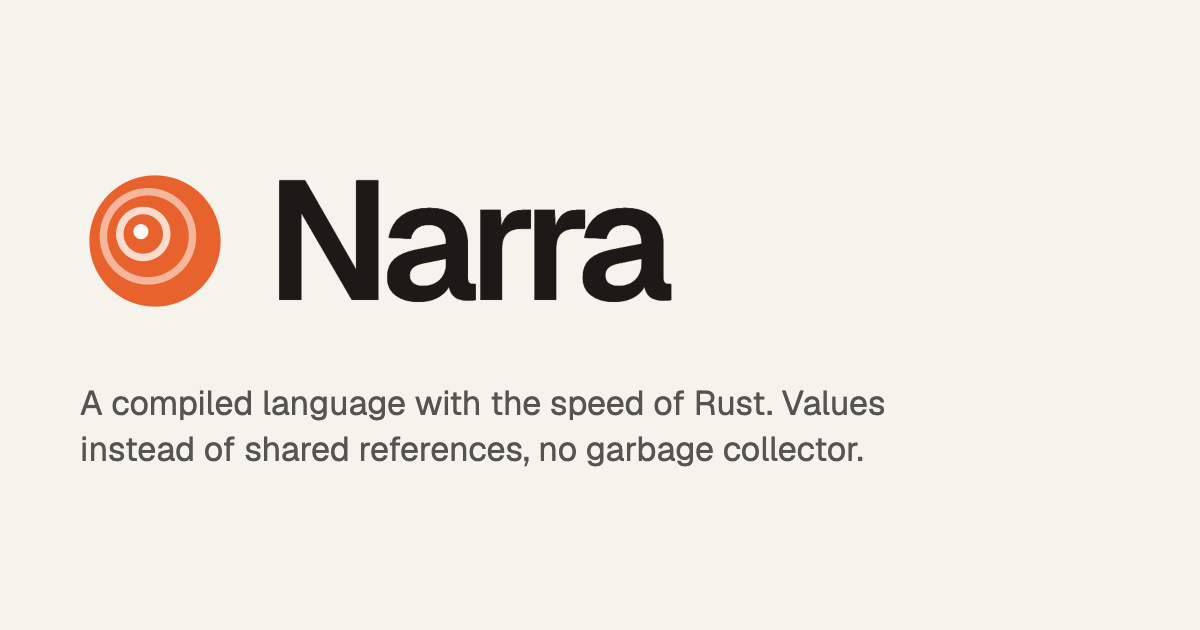
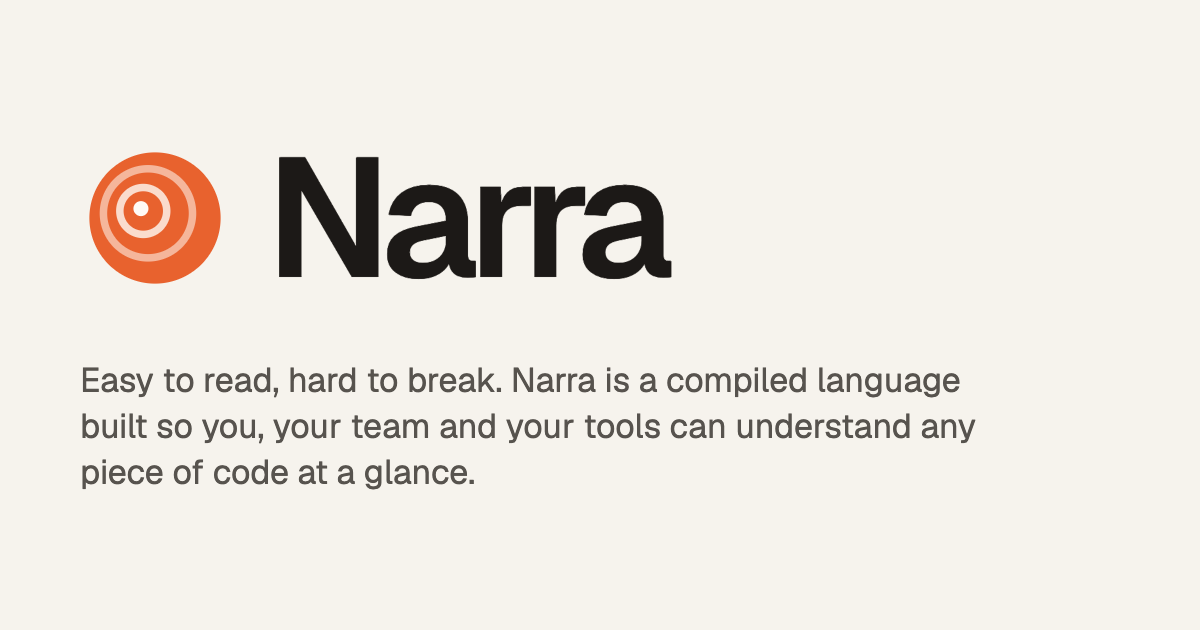
website: describe Narra as easy to read, hard to break
The lead said "the speed of Rust", which leans on Rust's reputation,
and followed it with a list of features. The lead, the page description
and the preview image now say what Narra is for.

Changed region(s): [[0.0617, 0.573, 0.8325, 0.7841], [0.2158, 0.2413, 0.5858, 0.4825], [0.0617, 0.2413, 0.185, 0.4825]]

diff --git a/website/scripts/og-image.html b/website/scripts/og-image.html
@@ -66,6 +66,6 @@
       </svg>
       <h1>Narra</h1>
     </div>
-    <p>A compiled language with the speed of Rust. Values instead of shared references, no garbage collector.</p>
+    <p>Easy to read, hard to break. Narra is a compiled language built so you, your team and your tools can understand any piece of code at a glance.</p>
   </body>
 </html>
